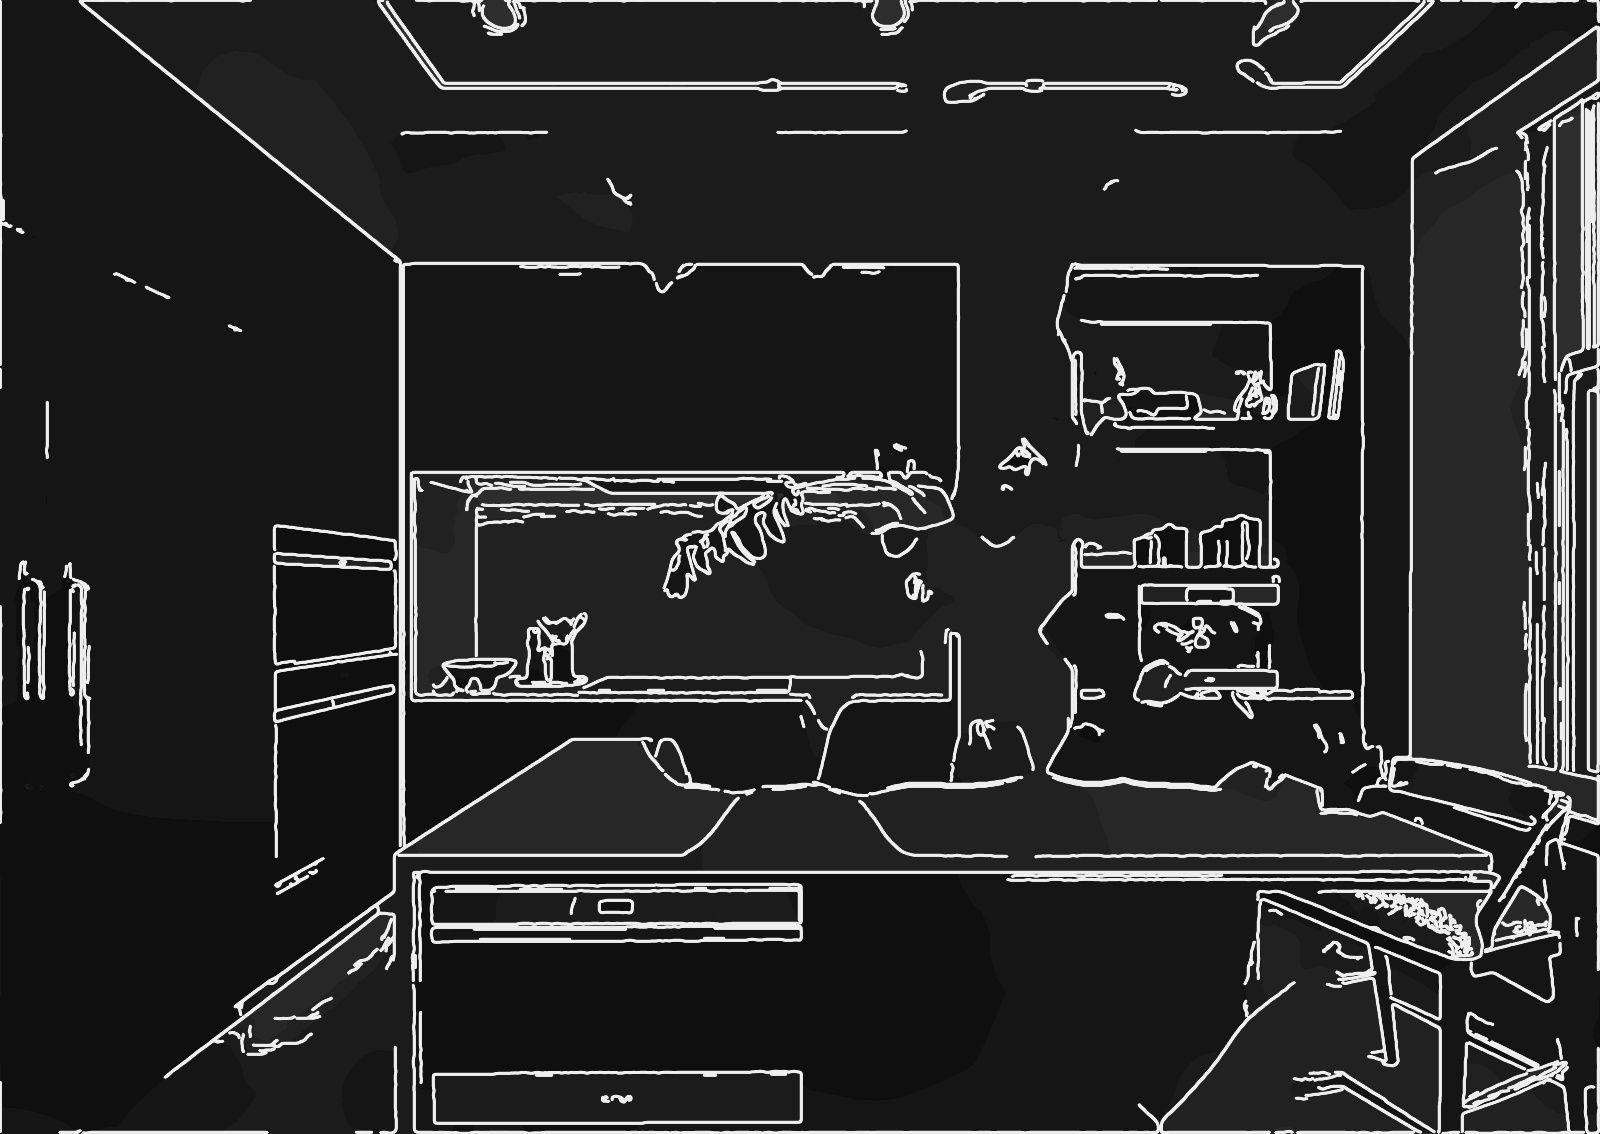
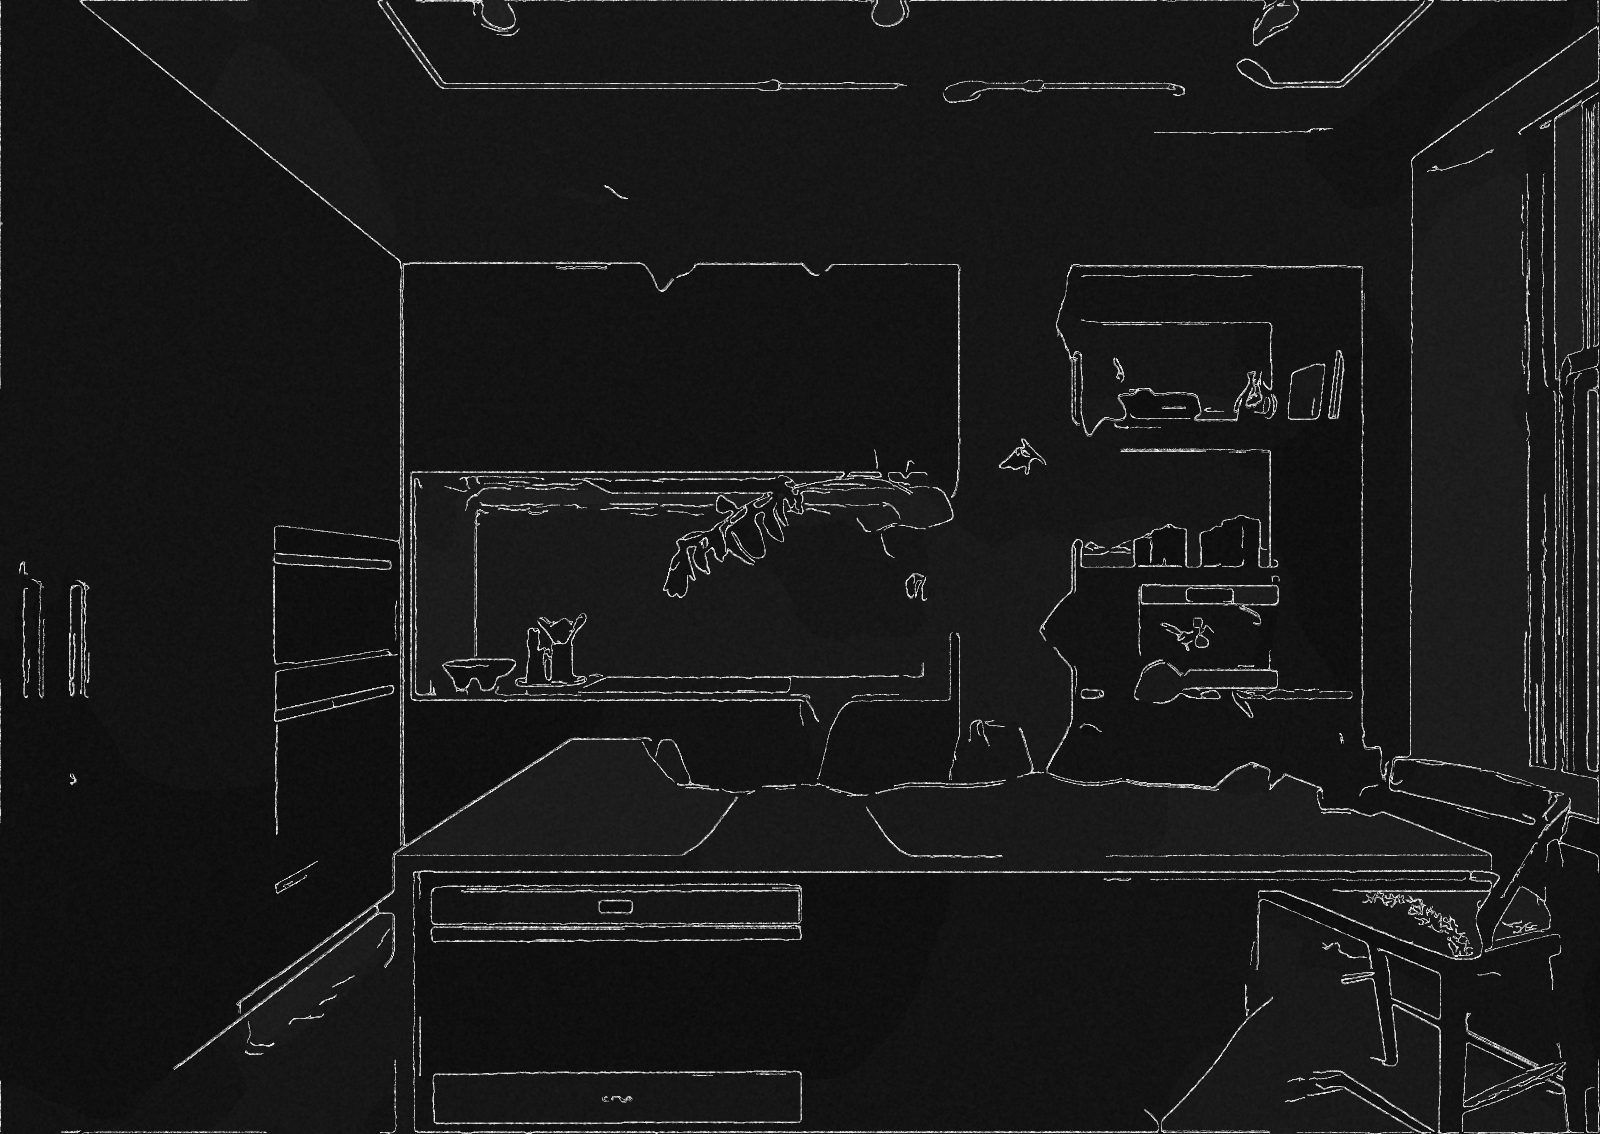
Story sketch v3 (user 19:53/19:55): thinner pencil lines (3x supersampled hairlines, a fainter jittered second pass, paper grain), cleaner (pane edges from the window map only, long contours only), city lights as faint dots; the drawing arrives as a clean sweep from the top with a pencil-ragged fron
Claude-Session: https://claude.ai/code/session_0117HZEeKusXN3UNmPD9FEqi

diff --git a/design/js/pre3d.js b/design/js/pre3d.js
@@ -71,10 +71,10 @@ const SKGL = `
   float skH(vec2 p){ return fract(sin(dot(p, vec2(127.1, 311.7))) * 43758.5453); }
   float skN(vec2 p){ vec2 i = floor(p), f = fract(p); f = f * f * (3. - 2. * f);
     return mix(mix(skH(i), skH(i + vec2(1., 0.)), f.x), mix(skH(i + vec2(0., 1.)), skH(i + 1.), f.x), f.y); }
-  float skR(vec2 uv, float k){ float n = .65 * skN(uv * 6.) + .35 * skN(uv * 19.); return smoothstep(n - .14, n + .14, k * 1.32 - .16); }
+  float skR(vec2 uv, float k){ float n = (1. - uv.y) * .82 + .18 * skN(uv * vec2(9., 14.)); return smoothstep(n - .05, n + .05, k * 1.12 - .06); }   /* a clean sweep from the top, pencil-ragged front */
   vec3 skMix(vec3 col, vec3 sk, vec2 uv, float k){ if (k <= 0.) return col; float r = skR(uv, k);
-    float edge = r * (1. - r) * 4.;                                   /* a faint bright front where the drawing arrives */
-    return mix(col, sk, r) + vec3(.9, .85, .78) * edge * .06 * (1. - k); }`;
+    float edge = r * (1. - r) * 4.;                                   /* a thin bright front where the drawing arrives */
+    return mix(col, sk, r) + vec3(.9, .87, .82) * edge * .1 * (1. - k); }`;
 
 function skyMat(tex){
   return new THREE.ShaderMaterial({
@@ -93,7 +93,7 @@ function skyMat(tex){
         float sp = pow(max(0., sin(uTime * (.7 + 1.5 * h(cell + 7.)) + h(cell) * 40.)), 26.) * step(.62, h(cell + 1.7));   /* glints */
         c.rgb *= mix(1., tw, m) * uLift;
         c.rgb += c.rgb * m * (.62 + 2.2 * sp);                     /* lights feed the bloom, some sparkle */
-        if (uSk > 0.) c.rgb = skMix(c.rgb, texture2D(skMap, vUv).rgb, vUv, uSk);
+        if (uSk > 0.) c.rgb = skMix(c.rgb, texture2D(skMap, vUv).rgb + vec3(.82, .8, .76) * pow(l, 2.2) * .22, vUv, uSk);   /* + the city lights as faint pencil dots */
         gl_FragColor = c;
         #include <colorspace_fragment>
       }`,

diff --git a/design/src/v15/pre3d.js b/design/src/v15/pre3d.js
@@ -71,10 +71,10 @@ const SKGL = `
   float skH(vec2 p){ return fract(sin(dot(p, vec2(127.1, 311.7))) * 43758.5453); }
   float skN(vec2 p){ vec2 i = floor(p), f = fract(p); f = f * f * (3. - 2. * f);
     return mix(mix(skH(i), skH(i + vec2(1., 0.)), f.x), mix(skH(i + vec2(0., 1.)), skH(i + 1.), f.x), f.y); }
-  float skR(vec2 uv, float k){ float n = .65 * skN(uv * 6.) + .35 * skN(uv * 19.); return smoothstep(n - .14, n + .14, k * 1.32 - .16); }
+  float skR(vec2 uv, float k){ float n = (1. - uv.y) * .82 + .18 * skN(uv * vec2(9., 14.)); return smoothstep(n - .05, n + .05, k * 1.12 - .06); }   /* a clean sweep from the top, pencil-ragged front */
   vec3 skMix(vec3 col, vec3 sk, vec2 uv, float k){ if (k <= 0.) return col; float r = skR(uv, k);
-    float edge = r * (1. - r) * 4.;                                   /* a faint bright front where the drawing arrives */
-    return mix(col, sk, r) + vec3(.9, .85, .78) * edge * .06 * (1. - k); }`;
+    float edge = r * (1. - r) * 4.;                                   /* a thin bright front where the drawing arrives */
+    return mix(col, sk, r) + vec3(.9, .87, .82) * edge * .1 * (1. - k); }`;
 
 function skyMat(tex){
   return new THREE.ShaderMaterial({
@@ -93,7 +93,7 @@ function skyMat(tex){
         float sp = pow(max(0., sin(uTime * (.7 + 1.5 * h(cell + 7.)) + h(cell) * 40.)), 26.) * step(.62, h(cell + 1.7));   /* glints */
         c.rgb *= mix(1., tw, m) * uLift;
         c.rgb += c.rgb * m * (.62 + 2.2 * sp);                     /* lights feed the bloom, some sparkle */
-        if (uSk > 0.) c.rgb = skMix(c.rgb, texture2D(skMap, vUv).rgb, vUv, uSk);
+        if (uSk > 0.) c.rgb = skMix(c.rgb, texture2D(skMap, vUv).rgb + vec3(.82, .8, .76) * pow(l, 2.2) * .22, vUv, uSk);   /* + the city lights as faint pencil dots */
         gl_FragColor = c;
         #include <colorspace_fragment>
       }`,

diff --git a/design/src/v15/pencil.py b/design/src/v15/pencil.py
@@ -1,0 +1,64 @@
+"""Ink/pencil line art, dark version (user 19:53–19:55: cleaner, but a touch of pencil, thinner lines).
+Contours of the L0-flattened image (Canny → traced → smoothed) are drawn as thin strokes at 3× supersampling; every stroke is
+drawn twice — a main line and a fainter, slightly jittered second pass — then broken up by paper grain. Fills: the flattened
+tone, quantised and pressed into a dark range. Optional: window rectangles (facade map) drawn the same pencil way.
+usage: pencil.py SRC OUT WIDTH lo hi lambda minlen [--facade]"""
+import cv2, numpy as np, sys
+from scipy import ndimage
+src, out, W = sys.argv[1], sys.argv[2], int(sys.argv[3])
+lo, hi, lam, minlen = float(sys.argv[4]), float(sys.argv[5]), float(sys.argv[6]), int(sys.argv[7])
+facade = '--facade' in sys.argv
+rng = np.random.default_rng(7)
+im = cv2.imread(src, cv2.IMREAD_UNCHANGED); alpha = im[:, :, 3] if im.ndim == 3 and im.shape[2] == 4 else None
+im = im[:, :, :3]; h, w = im.shape[:2]; H = int(round(h * W / w))
+sm = cv2.resize(im, (W, H), interpolation=cv2.INTER_AREA)
+L0 = cv2.ximgproc.l0Smooth(sm, None, lam, 2.0)
+g = cv2.cvtColor(L0, cv2.COLOR_BGR2GRAY)
+SS = 3; cv = np.zeros((H * SS, W * SS), np.float32)
+def stroke(pts, val, jit=.55):
+    P = (pts * SS * 16).astype(np.int32).reshape(-1, 1, 2)
+    layer = np.zeros_like(cv); cv2.polylines(layer, [P], False, val, thickness=1, lineType=cv2.LINE_AA, shift=4)
+    q = pts + rng.normal(0, jit, (1, 2)) + rng.normal(0, .18, pts.shape)        # the second, looser pass
+    Q = (q * SS * 16).astype(np.int32).reshape(-1, 1, 2)
+    cv2.polylines(layer, [Q], False, val * .45, thickness=1, lineType=cv2.LINE_AA, shift=4)
+    np.maximum(cv, layer, out=cv)
+e = cv2.Canny(g, lo, hi, L2gradient=True)
+if facade:                                                        # pane edges come from the measured map, not from Canny
+    G = '/home/claude/ci-design-build-prototype/design/assets/v15/gl/'
+    r = cv2.imread(G + 'facade_win.png')[:, :, 2]
+    pane = cv2.resize((r > 0).astype(np.uint8), (W, H), interpolation=cv2.INTER_NEAREST)
+    e[ndimage.binary_dilation(pane > 0, iterations=7)] = 0
+cs, _ = cv2.findContours(e, cv2.RETR_LIST, cv2.CHAIN_APPROX_NONE)
+k = 5
+for c in cs:
+    if len(c) < minlen: continue
+    p = c[:, 0, :].astype(np.float32)
+    pad = np.concatenate([p[:1].repeat(k // 2, 0), p, p[-1:].repeat(k // 2, 0)])
+    p = np.stack([np.convolve(pad[:, i], np.ones(k) / k, mode='valid') for i in range(2)], 1)
+    stroke(p, .62 if facade else 1.)
+if facade:
+    lab, n = ndimage.label(r > 0); kx = W / r.shape[1]
+    for sl in ndimage.find_objects(lab):
+        y0, y1, x0, x1 = sl[0].start, sl[0].stop, sl[1].start, sl[1].stop
+        if (x1 - x0) < 6 or (y1 - y0) < 12: continue
+        X0, Y0, X1, Y1 = [v * kx for v in (x0 - .5, y0 - .5, x1 - .5, y1 - .5)]
+        ov = 2.2                                                  # pencil overshoot at the corners
+        for (a, b) in [((X0 - ov, Y0), (X1 + ov, Y0)), ((X1, Y0 - ov), (X1, Y1 + ov)), ((X1 + ov, Y1), (X0 - ov, Y1)), ((X0, Y1 + ov), (X0, Y0 - ov))]:
+            stroke(np.array([a, b], np.float32), 1.)
+        ins = 2.6 * kx
+        rect = np.array([(X0 + ins, Y0 + ins), (X1 - ins, Y0 + ins), (X1 - ins, Y1 - ins), (X0 + ins, Y1 - ins), (X0 + ins, Y0 + ins)], np.float32)
+        stroke(rect, .45, .3)
+ln = cv2.resize(cv, (W, H), interpolation=cv2.INTER_AREA)
+ln = np.clip(ln * 3.1, 0, 1)                                      # thin, but present
+grain = cv2.GaussianBlur(rng.random((H, W)).astype(np.float32), (0, 0), .8)
+grain = (grain - grain.mean()) / (grain.std() + 1e-6)
+ln = np.clip(ln * (.82 + .16 * grain), 0, 1)                      # pencil breaks up on the paper
+tone = g.astype(np.float32) / 255.
+fill = 16 + np.round(tone * 5) / 5 * 16 + grain * 1.6             # dark fills with a little tooth
+res = fill + (230 - fill) * ln
+res = np.clip(res, 0, 255).astype(np.uint8)
+res = cv2.cvtColor(res, cv2.COLOR_GRAY2BGR)
+if alpha is not None:
+    res = np.dstack([res, cv2.resize(alpha, (W, H), interpolation=cv2.INTER_AREA)])
+cv2.imwrite(out, res, [cv2.IMWRITE_JPEG_QUALITY, 82] if out.endswith('.jpg') else [cv2.IMWRITE_WEBP_QUALITY, 90])
+print('ok', out, res.shape)
